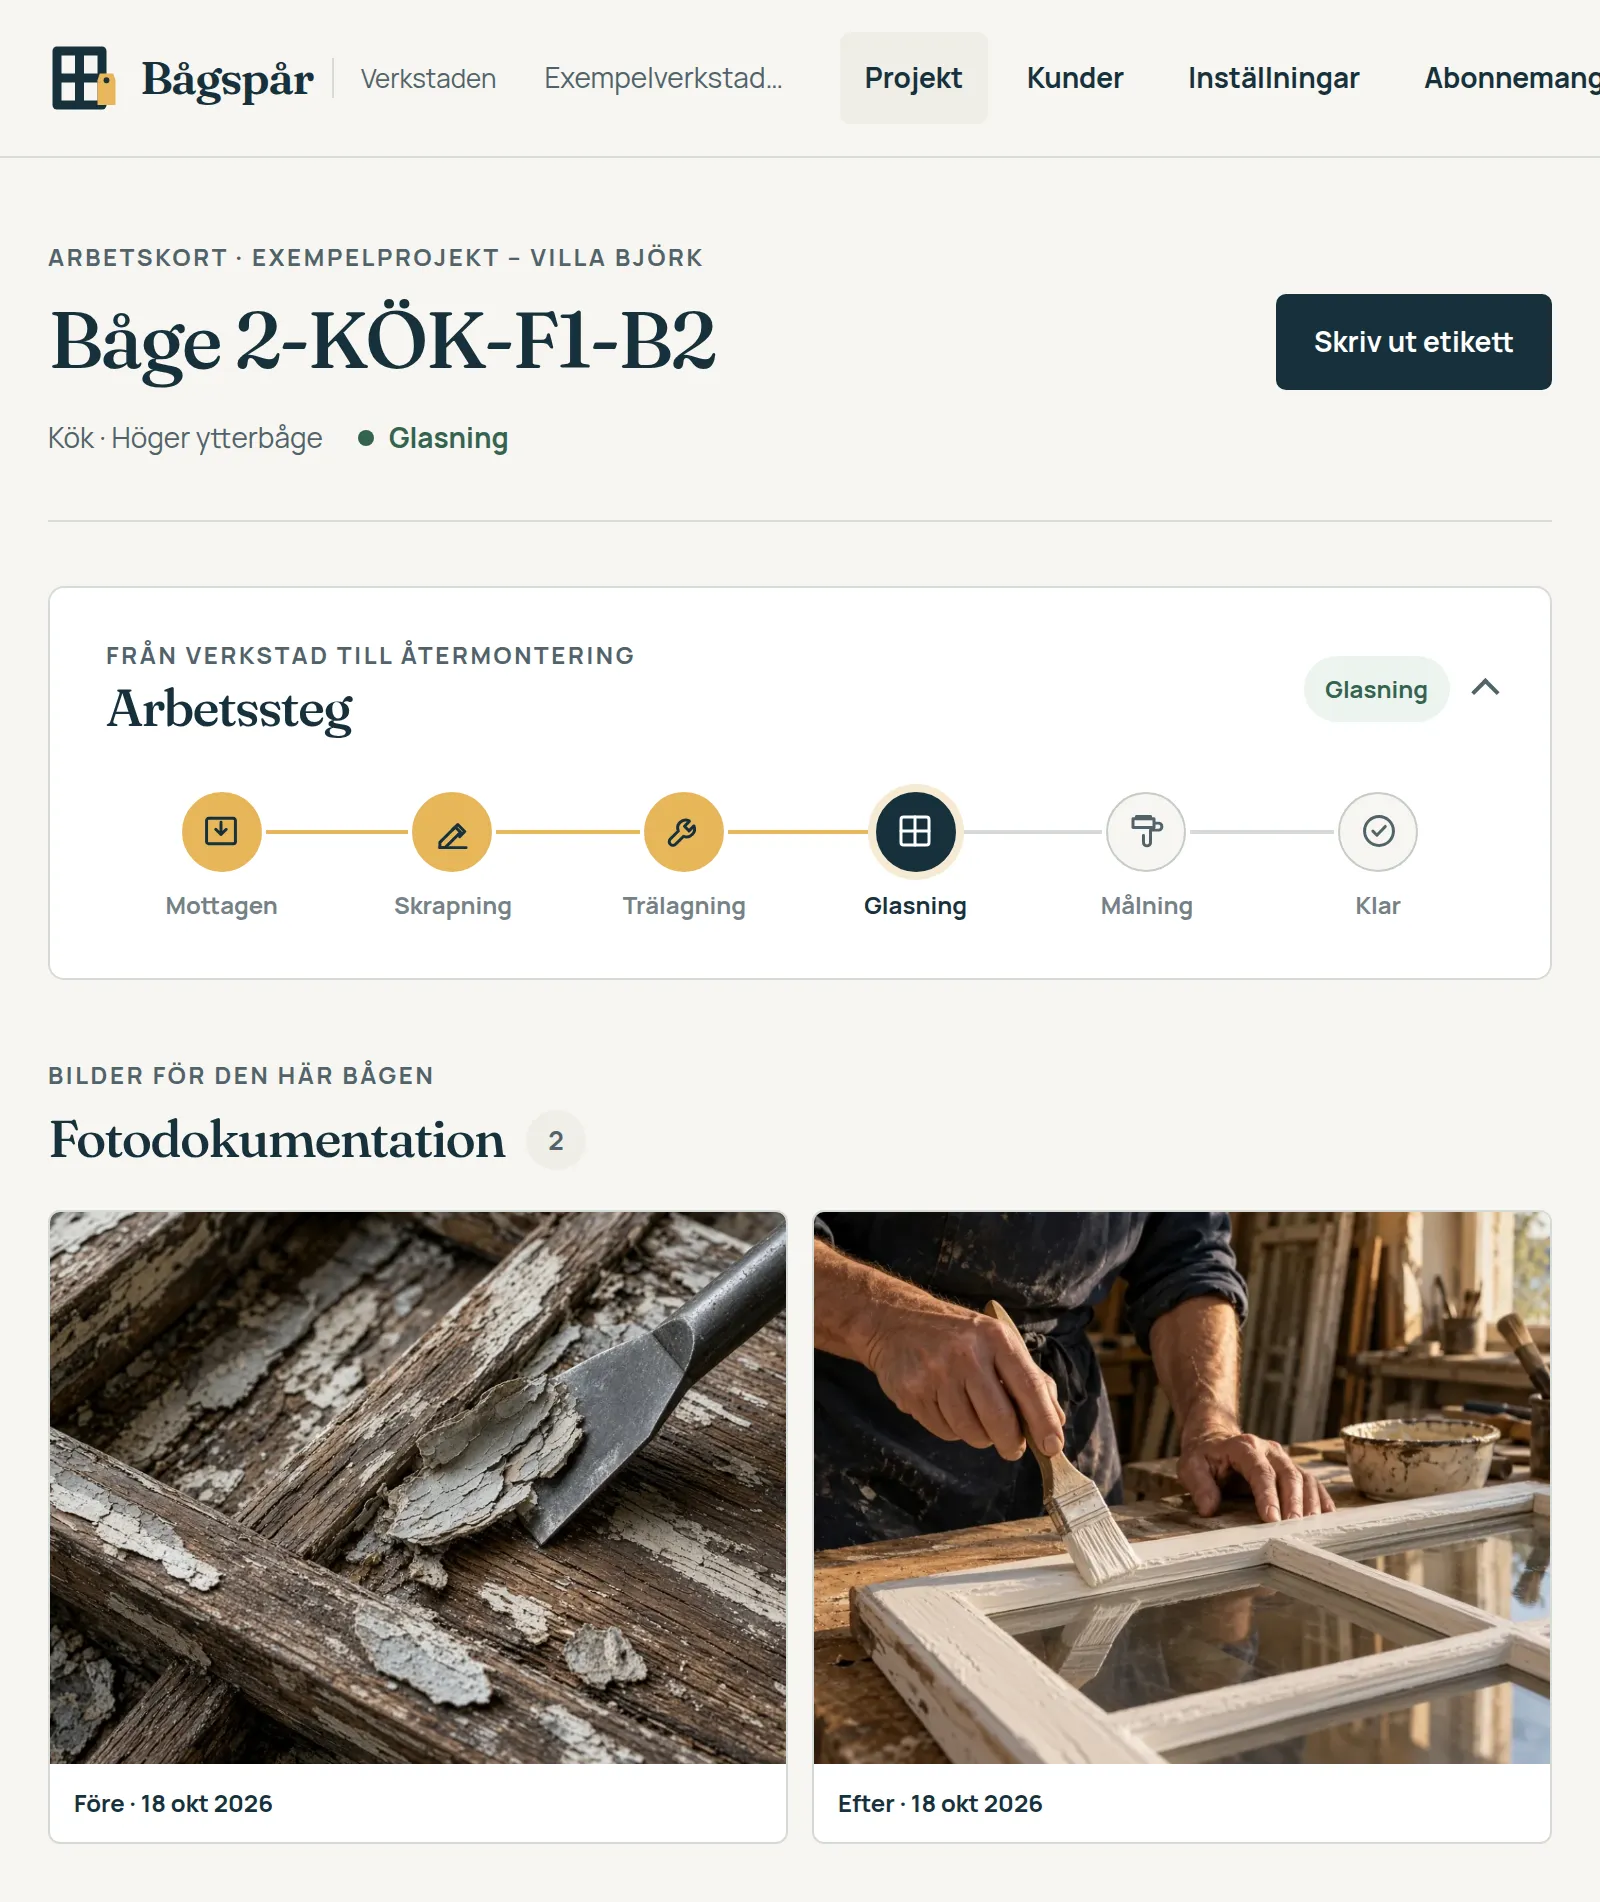
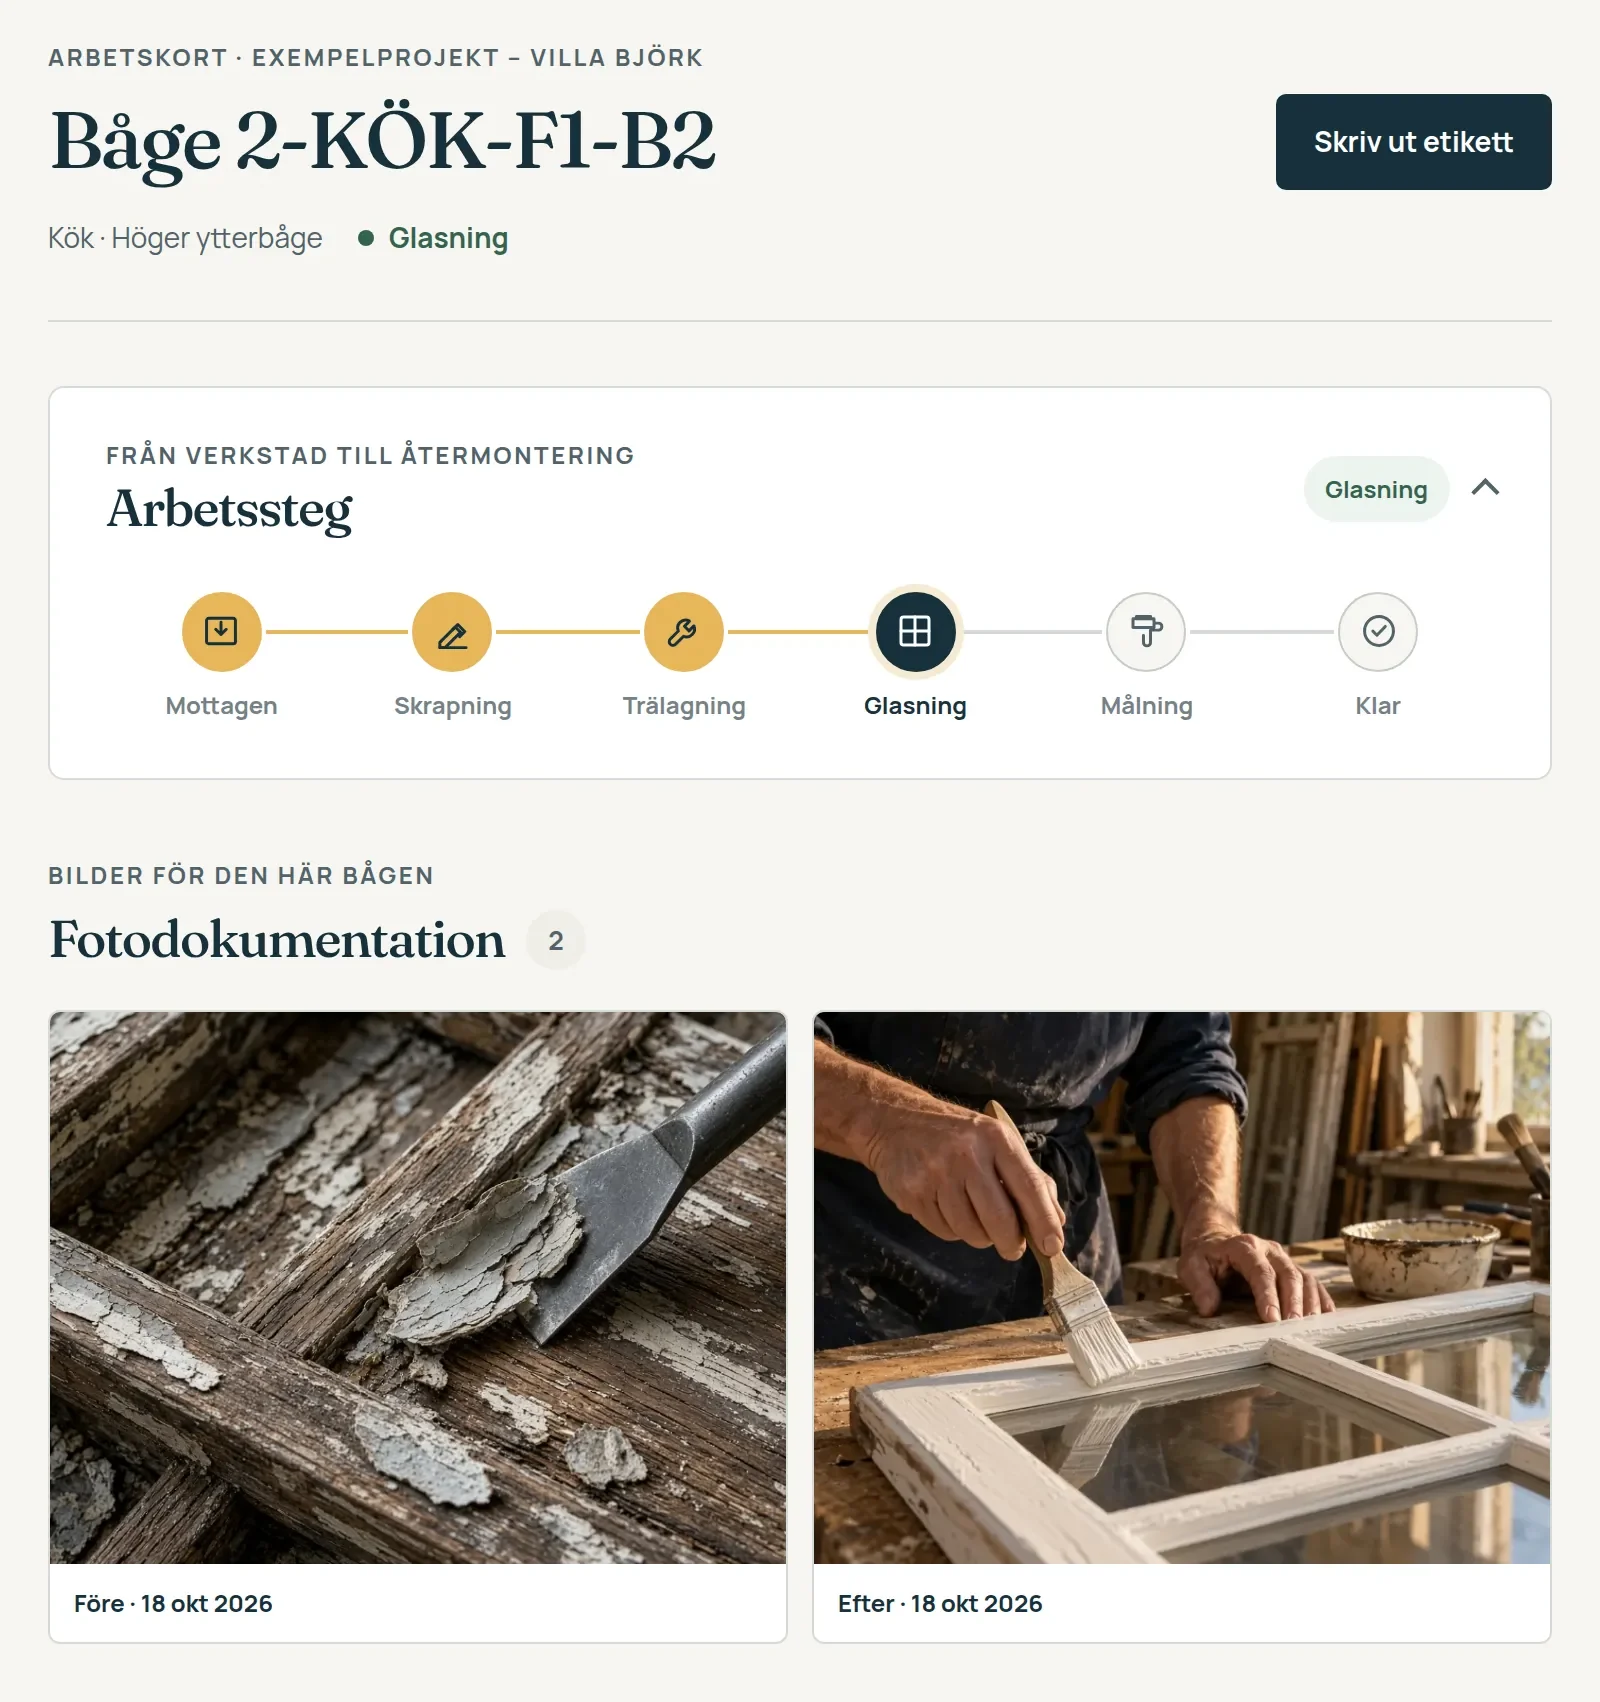
Fit enlarged screenshots in the viewport and crop the clipped pricing menu.
The lightbox was showing product shots at native size, so wide images spilled past the viewport. The pricing work card also cut the header through Abonnemang.

diff --git a/public/css/site.css b/public/css/site.css
@@ -2966,14 +2966,15 @@ html.cookie-choice-saved .cookie-banner {
 }
 
 .lightbox {
-    width: 100vw;
-    max-width: 100vw;
-    height: 100dvh;
-    max-height: 100dvh;
+    width: 100%;
+    max-width: 100%;
+    height: 100%;
+    max-height: 100%;
     margin: 0;
-    padding: 16px 16px 24px;
+    padding: 52px 0 24px;
     border: 0;
-    overflow: auto;
+    overflow-x: hidden;
+    overflow-y: auto;
     background: transparent;
 }
 
@@ -2982,9 +2983,12 @@ html.cookie-choice-saved .cookie-banner {
 }
 
 .lightbox__panel {
-    width: max-content;
-    max-width: none;
-    margin: 52px auto 0;
+    display: flex;
+    flex-direction: column;
+    align-items: center;
+    width: min(90vw, max-content);
+    max-width: 90vw;
+    margin: 0 auto;
 }
 
 .lightbox__close {
@@ -3007,20 +3011,23 @@ html.cookie-choice-saved .cookie-banner {
 .lightbox img {
     display: block;
     width: auto;
-    max-width: none;
+    max-width: 90vw;
     height: auto;
+    max-height: 90vh;
+    object-fit: contain;
     background: #fff;
 }
 
 .lightbox p {
-    max-width: 42rem;
+    max-width: min(42rem, 90vw);
     margin: 12px 0 0;
     color: #fff;
     font-size: 15px;
     line-height: 1.45;
 }
 
-html.lightbox-open {
+html.lightbox-open,
+html.lightbox-open body {
     overflow: hidden;
 }
 

diff --git a/tests/Feature/HomePageTest.php b/tests/Feature/HomePageTest.php
@@ -208,7 +208,11 @@ class HomePageTest extends TestCase
         $this->assertStringContainsString('images/product/arbetskort-pris.webp', $html);
         $this->assertStringContainsString('alt="Arbetskort för båge 2-KÖK-F1-B2 i exempelverkstaden, med steget Glasning, stegen Mottagen till Klar och foton före och efter. Exempeldata."', $html);
         $this->assertStringContainsString('width="1600"', $html);
-        $this->assertStringContainsString('height="1902"', $html);
+        $this->assertStringContainsString('height="1702"', $html);
+        $pricingShot = getimagesize(public_path('images/product/arbetskort-pris.webp'));
+        $this->assertIsArray($pricingShot);
+        $this->assertSame(1600, $pricingShot[0]);
+        $this->assertSame(1702, $pricingShot[1]);
         $this->assertStringContainsString('loading="lazy"', $html);
 
         $css = file_get_contents(public_path('css/site.css'));
@@ -233,6 +237,15 @@ class HomePageTest extends TestCase
         $this->assertStringContainsString("event.key !== 'Tab'", $script);
         $this->assertStringContainsString('lightbox.showModal()', $script);
         $this->assertStringContainsString('lightboxOpener.focus()', $script);
+
+        $css = file_get_contents(public_path('css/site.css'));
+        $this->assertIsString($css);
+        $this->assertMatchesRegularExpression(
+            '/\.lightbox img\s*\{[^}]*width:\s*auto;[^}]*max-width:\s*90vw;[^}]*height:\s*auto;[^}]*max-height:\s*90vh;[^}]*object-fit:\s*contain;/',
+            $css,
+        );
+        $this->assertMatchesRegularExpression('/\.lightbox\s*\{[^}]*overflow-x:\s*hidden;/', $css);
+        $this->assertDoesNotMatchRegularExpression('/\.lightbox img\s*\{[^}]*max-width:\s*none/', $css);
     }
 
     public function test_renovation_guide_uses_a_workshop_photo_thumbnail(): void

diff --git a/resources/views/home.blade.php b/resources/views/home.blade.php
@@ -356,7 +356,7 @@
                 <a class="button" href="{{ route('register') }}">{{ \App\Support\Pricing::trialHeadline() }}</a>
             </div>
             <figure class="pilot-pricing__shot" data-reveal>
-                <img src="{{ asset('images/product/arbetskort-pris.webp') }}?v={{ $pricingShotVersion }}" alt="Arbetskort för båge 2-KÖK-F1-B2 i exempelverkstaden, med steget Glasning, stegen Mottagen till Klar och foton före och efter. Exempeldata." width="1600" height="1902" loading="lazy" decoding="async">
+                <img src="{{ asset('images/product/arbetskort-pris.webp') }}?v={{ $pricingShotVersion }}" alt="Arbetskort för båge 2-KÖK-F1-B2 i exempelverkstaden, med steget Glasning, stegen Mottagen till Klar och foton före och efter. Exempeldata." width="1600" height="1702" loading="lazy" decoding="async">
             </figure>
         </section>
     </div>
